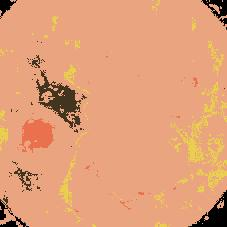
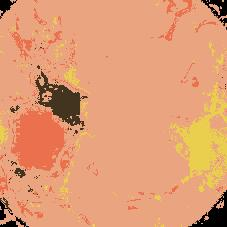
updating images SVM

diff --git a/SVM_classification.py b/SVM_classification.py
@@ -6,42 +6,42 @@ from sklearn.cluster import KMeans
 from sklearn.svm import SVC
 
 plt.close('all')
-#1----------------------------------------------------------------------------------------------------------
-classes = {'wall': 0, 'polyp': 1, 'dirt': 2, 'dark': 3, 'hole': 4}
-n_classes = len(classes)
-palette = np.uint8([[234, 164, 128], [234, 112, 78], [234, 207, 79], [0, 0, 0], [67,52,31]])
-
-img = io.imread('images/1.jpg')
-img2 = img
-rows, cols, bands = img.shape
-
-
-X = img.reshape(rows*cols, bands)
-kmeans = KMeans(n_clusters=n_classes, random_state=0).fit(X)
-
-supervised = n_classes*np.ones(shape=(rows, cols), dtype=np.int)
-supervised[140:170, 22:50] = classes['polyp']
-supervised[20:95, 0:120] = classes['wall']
-#supervised[0:0, 0:0] = classes['dirt']
-supervised[0:10, 0:10] = classes['dark']
-supervised[165:195, 80:150] = classes['hole']
-
-y = supervised.ravel()
-train = np.flatnonzero(supervised < n_classes)
-test = np.flatnonzero(supervised == n_classes)
-
-clf = SVC()
-clf.fit(X[train], y[train])
-y[test] = clf.predict(X[test])
-supervised = y.reshape(rows, cols)
-#io.imshow(palette[supervised])
-plt.imshow(img2)
-plt.show()
-plt.imshow(palette[supervised], cmap=plt.cm.binary)
-plt.show()
-
-supervised_1 = supervised
-imageio.imwrite('./images/1_SVM.jpg',palette[supervised])
+# #1----------------------------------------------------------------------------------------------------------
+# classes = {'wall': 0, 'polyp': 1, 'dirt': 2, 'dark': 3, 'hole': 4}
+# n_classes = len(classes)
+# palette = np.uint8([[234, 164, 128], [234, 112, 78], [234, 207, 79], [0, 0, 0], [67,52,31]])
+#
+# img = io.imread('images/1.jpg')
+# img2 = img
+# rows, cols, bands = img.shape
+#
+#
+# X = img.reshape(rows*cols, bands)
+# kmeans = KMeans(n_clusters=n_classes, random_state=0).fit(X)
+#
+# supervised = n_classes*np.ones(shape=(rows, cols), dtype=np.int)
+# supervised[130:170, 22:55] = classes['polyp']
+# supervised[20:95, 0:120] = classes['wall']
+# #supervised[0:0, 0:0] = classes['dirt']
+# supervised[0:10, 0:10] = classes['dark']
+# supervised[165:195, 80:170] = classes['hole']
+#
+# y = supervised.ravel()
+# train = np.flatnonzero(supervised < n_classes)
+# test = np.flatnonzero(supervised == n_classes)
+#
+# clf = SVC()
+# clf.fit(X[train], y[train])
+# y[test] = clf.predict(X[test])
+# supervised = y.reshape(rows, cols)
+# #io.imshow(palette[supervised])
+# plt.imshow(img2)
+# plt.show()
+# plt.imshow(palette[supervised], cmap=plt.cm.binary)
+# plt.show()
+#
+# supervised_1 = supervised
+# imageio.imwrite('./images/1_SVM.jpg',palette[supervised])
 # #2----------------------------------------------------------------------------------------------------------
 # classes = {'wall': 0, 'polyp': 1, 'dirt': 2, 'dark': 3, 'hole': 4}
 # n_classes = len(classes)
@@ -56,11 +56,11 @@ imageio.imwrite('./images/1_SVM.jpg',palette[supervised])
 # kmeans = KMeans(n_clusters=n_classes, random_state=0).fit(X)
 #
 # supervised = n_classes*np.ones(shape=(rows, cols), dtype=np.int)
-# supervised[125:140, 25:50] = classes['polyp']
-# supervised[90:110, 120:140] = classes['wall']
-# supervised[140:160, 190:195] = classes['dirt']
+# supervised[115:166, 20:52] = classes['polyp']
+# supervised[10:110, 110:150] = classes['wall']
+# supervised[125:170, 190:210] = classes['dirt']
 # supervised[0:10, 0:10] = classes['dark']
-# supervised[90:110, 65:75] = classes['hole']
+# supervised[93:115, 53:80] = classes['hole']
 #
 # y = supervised.ravel()
 # train = np.flatnonzero(supervised < n_classes)
@@ -78,42 +78,42 @@ imageio.imwrite('./images/1_SVM.jpg',palette[supervised])
 #
 # supervised_2 = supervised
 # imageio.imwrite('./images/2_SVM.jpg',palette[supervised])
-# #3----------------------------------------------------------------------------------------------------------
-# classes = {'wall': 0, 'polyp': 1, 'dirt': 2, 'dark': 3, 'hole': 4}
-# n_classes = len(classes)
-# palette = np.uint8([[234, 164, 128], [234, 112, 78], [234, 207, 79], [0, 0, 0], [67,52,31]])
-#
-# img = io.imread('images/3.jpg')
-# img2 = img
-# rows, cols, bands = img.shape
-#
-#
-# X = img.reshape(rows*cols, bands)
-# kmeans = KMeans(n_clusters=n_classes, random_state=0).fit(X)
-#
-# supervised = n_classes*np.ones(shape=(rows, cols), dtype=np.int)
-# supervised[160:185, 150:170] = classes['polyp']
-# supervised[10:30, 40:150] = classes['wall']
-# supervised[148:154, 109:136] = classes['dirt']
-# supervised[0:10, 0:10] = classes['dark']
-# #supervised[90:110, 65:75] = classes['hole']
-#
-# y = supervised.ravel()
-# train = np.flatnonzero(supervised < n_classes)
-# test = np.flatnonzero(supervised == n_classes)
-#
-# clf = SVC()
-# clf.fit(X[train], y[train])
-# y[test] = clf.predict(X[test])
-# supervised = y.reshape(rows, cols)
-# #io.imshow(palette[supervised])
-# plt.imshow(img2)
-# plt.show()
-# plt.imshow(palette[supervised], cmap=plt.cm.binary)
-# plt.show()
-#
-# supervised_3 = supervised
-# imageio.imwrite('./images/3_SVM.jpg',palette[supervised])
+#3----------------------------------------------------------------------------------------------------------
+classes = {'wall': 0, 'polyp': 1, 'dirt': 2, 'dark': 3, 'hole': 4}
+n_classes = len(classes)
+palette = np.uint8([[234, 164, 128], [234, 112, 78], [234, 207, 79], [0, 0, 0], [67,52,31]])
+
+img = io.imread('images/3.jpg')
+img2 = img
+rows, cols, bands = img.shape
+
+
+X = img.reshape(rows*cols, bands)
+kmeans = KMeans(n_clusters=n_classes, random_state=0).fit(X)
+
+supervised = n_classes*np.ones(shape=(rows, cols), dtype=np.int)
+supervised[160:200, :175] = classes['polyp']
+supervised[40:100, 25:175] = classes['wall']
+supervised[148:154, 109:136] = classes['dirt']
+supervised[0:10, 0:10] = classes['dark']
+#supervised[90:110, 65:75] = classes['hole']
+
+y = supervised.ravel()
+train = np.flatnonzero(supervised < n_classes)
+test = np.flatnonzero(supervised == n_classes)
+
+clf = SVC()
+clf.fit(X[train], y[train])
+y[test] = clf.predict(X[test])
+supervised = y.reshape(rows, cols)
+#io.imshow(palette[supervised])
+plt.imshow(img2)
+plt.show()
+plt.imshow(palette[supervised], cmap=plt.cm.binary)
+plt.show()
+
+supervised_3 = supervised
+imageio.imwrite('./images/3_SVM.jpg',palette[supervised])
 # #4------------------------------------------------------------------------------------------------
 # classes = {'wall': 0, 'polyp': 1, 'dirt': 2, 'dark': 3, 'hole': 4}
 # n_classes = len(classes)
